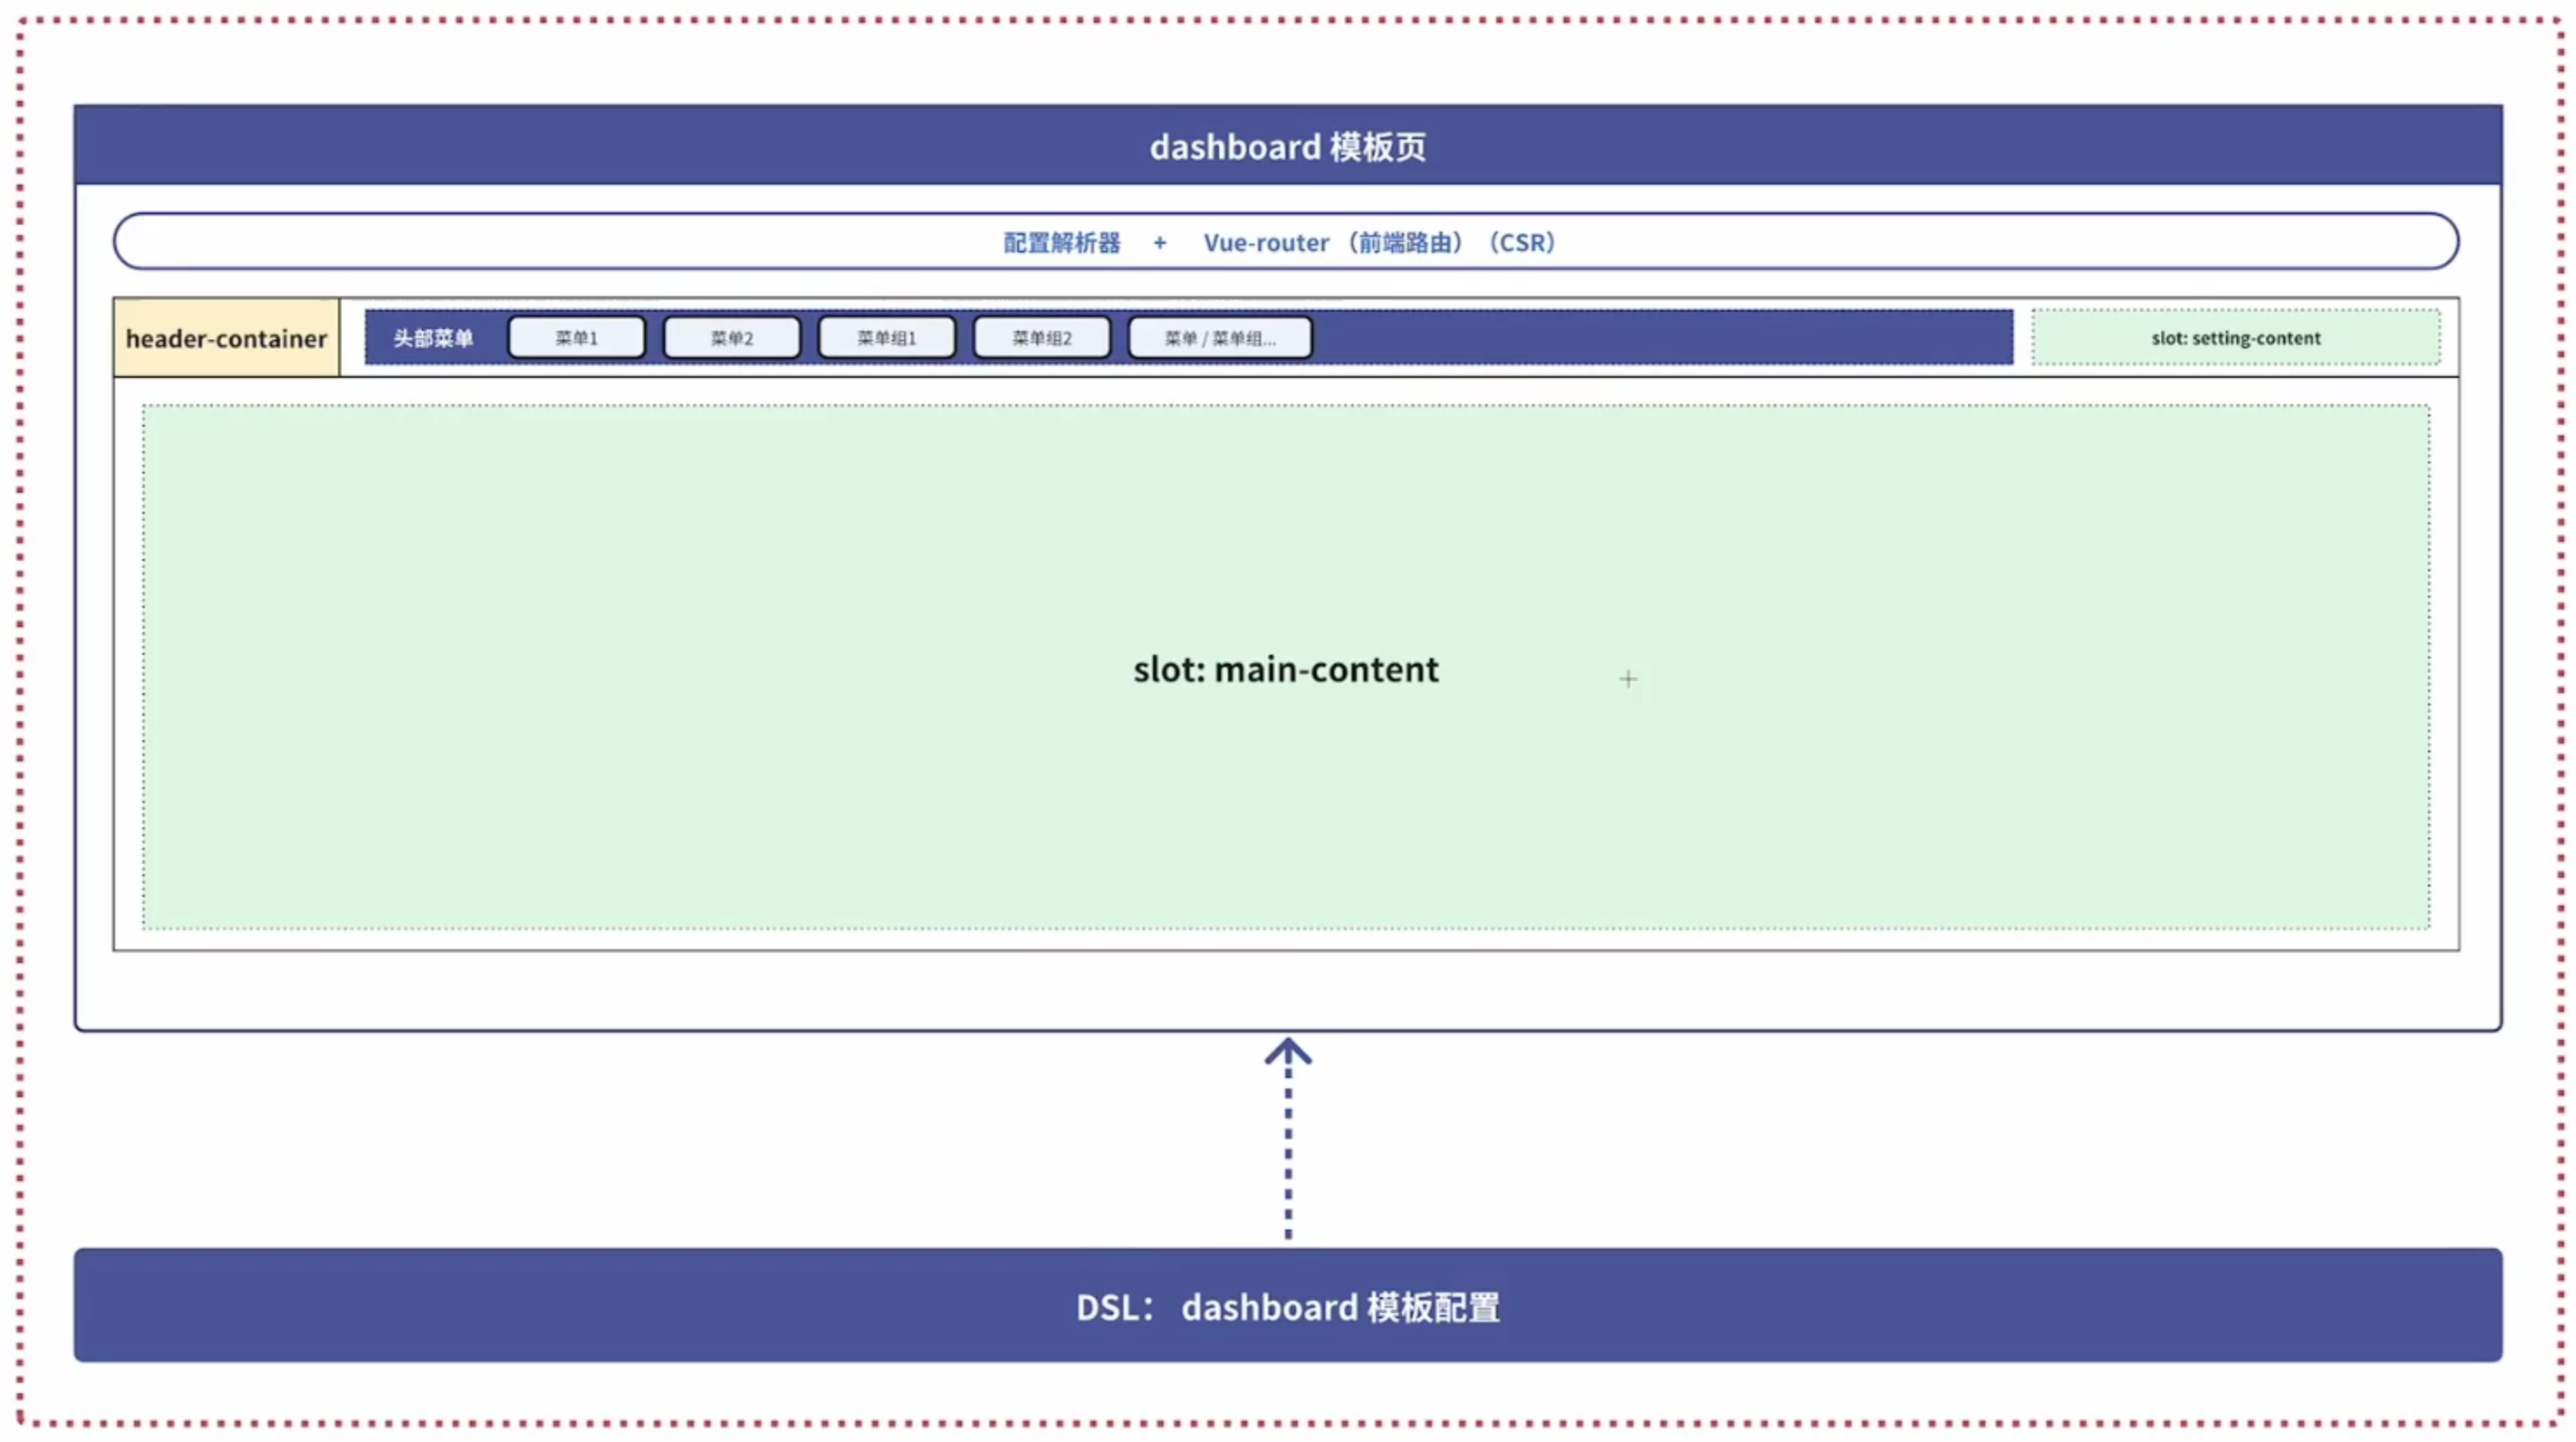
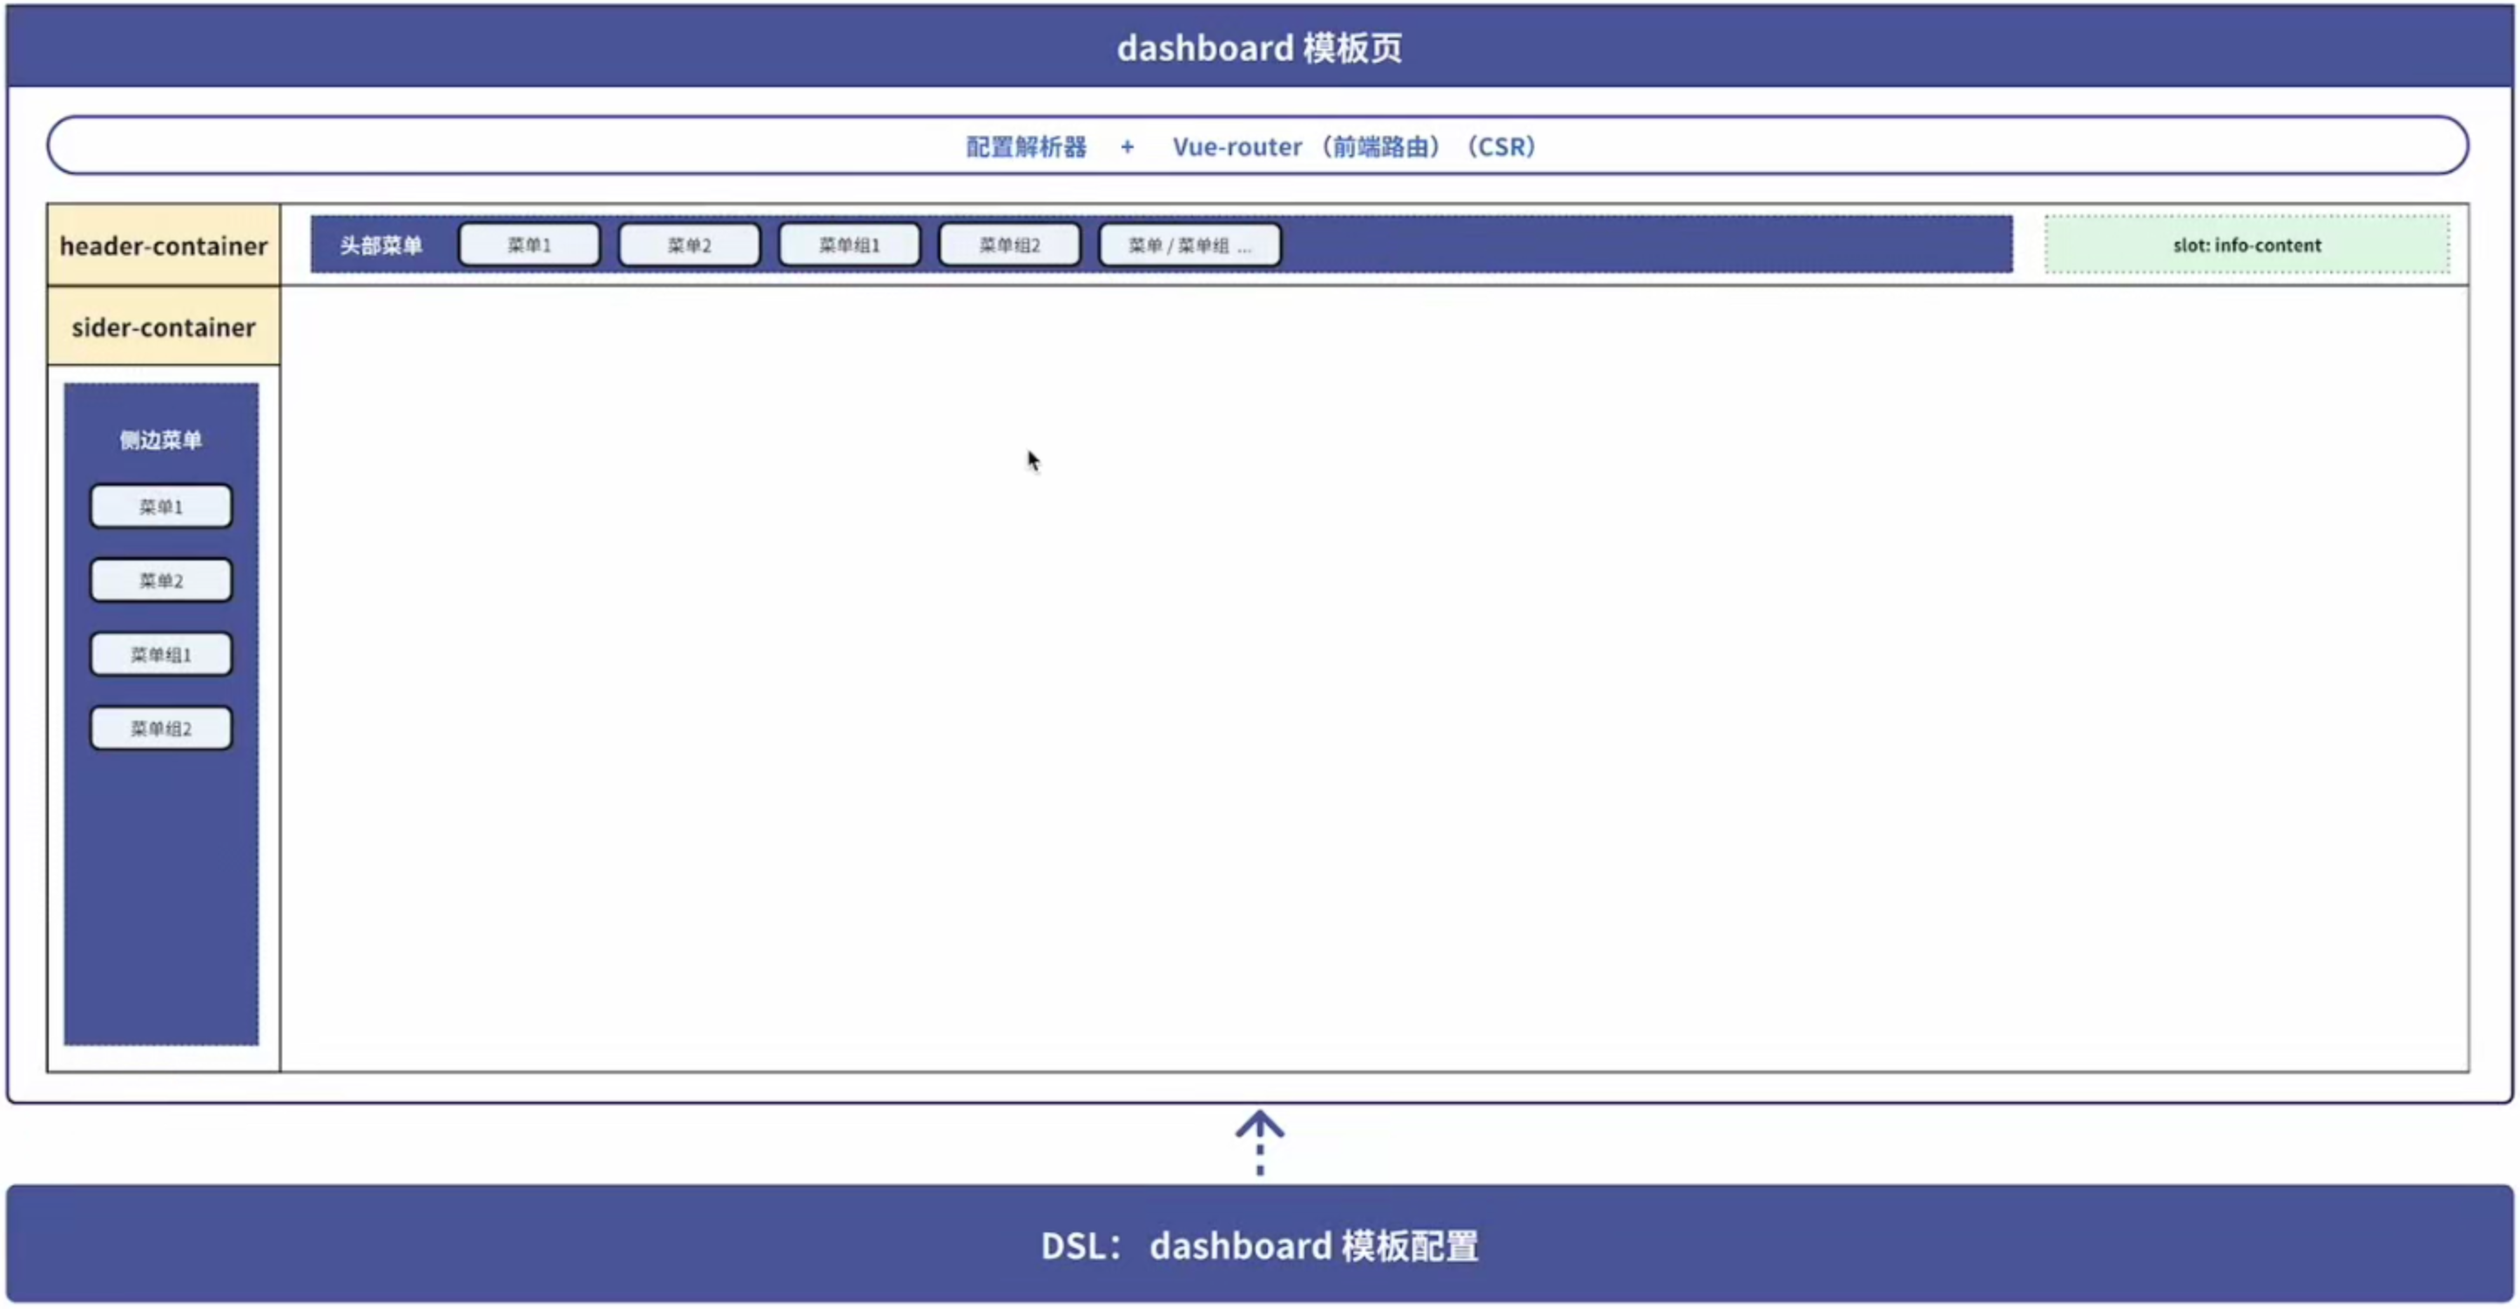
实现 sider-view

diff --git a/app/src/pages/dashboard/component/sider-view/sider-view.vue b/app/src/pages/dashboard/component/sider-view/sider-view.vue
@@ -1,7 +1,126 @@
-<script setup></script>
+<script setup>
+import { ref, watch, onMounted } from 'vue';
+import { useRouter, useRoute } from 'vue-router';
+import { useMenuStore } from '@store/menu.js';
+import SiderContainer from '@component/sider-container/sider-container.vue';
+import SubMenu from './sub-menu.vue';
+
+const router = useRouter();
+const route = useRoute();
+const menuStore = useMenuStore();
+
+const activeKey = ref('');
+
+const setActiveKey = () => {
+  let siderMenuItem = menuStore.findMenuItem({
+    key: 'key',
+    value: route.query.sider_key,
+  });
+
+  // 如果首次加载 sider-view，用户未选中左侧菜单，默认第一个
+  if (!siderMenuItem) {
+    const menuItem = menuStore.findMenuItem({
+      key: 'key',
+      value: route.query.key,
+    });
+
+    if (menuItem && menuItem.siderConfig && menuItem.siderConfig.menu) {
+      const sideMenuList = menuItem.siderConfig.menu;
+      // 因为可能深层嵌套，所以使用方法递归去处理
+      siderMenuItem = menuStore.findFirstMenuItem(sideMenuList);
+
+      if (siderMenuItem) {
+        handleMenuSelect(siderMenuItem.key);
+      }
+    }
+  }
+
+  activeKey.value = siderMenuItem?.key;
+};
+
+watch(
+  () => route.query.key,
+  () => {
+    setActiveKey();
+    setMenuList();
+  },
+);
+
+watch(
+  () => menuStore.menuList,
+  () => {
+    setActiveKey();
+    setMenuList();
+  },
+  { deep: true },
+);
+
+const menuList = ref([]);
+
+const setMenuList = () => {
+  const menuItem = menuStore.findMenuItem({
+    key: 'key',
+    value: route.query.key,
+  });
+
+  if (menuItem && menuItem.siderConfig && menuItem.siderConfig.menu) {
+    menuList.value = menuItem.siderConfig.menu;
+  }
+};
+
+const handleMenuSelect = (menuKey) => {
+  if (menuKey === route.query.sider_key) return;
+
+  const menuItem = menuStore.findMenuItem({
+    key: 'key',
+    value: menuKey,
+  });
+
+  const { moduleType, customConfig } = menuItem;
+
+  const pathMap = {
+    sider: '/sider',
+    iframe: '/iframe',
+    schema: '/schema',
+    custom: customConfig?.path,
+  };
+
+  router.push({
+    path: `/sider${pathMap[moduleType]}`,
+    query: {
+      key: route.query.key,
+      proj_key: route.query.proj_key,
+      sider_key: menuKey,
+    },
+  });
+};
+
+const onMenuSelect = (menuKey) => {
+  handleMenuSelect(menuKey);
+};
+
+onMounted(() => {
+  setActiveKey();
+  setMenuList();
+});
+</script>
 
 <template>
-  <div class="wrapper">sider-view</div>
+  <sider-container>
+    <template #menu-content>
+      <el-menu :default-active="activeKey" :ellipsis="false" @select="onMenuSelect">
+        <template v-for="item in menuList" :key="item.key">
+          <sub-menu v-if="item.subMenu && item.subMenu.length > 0" :menu-item="item" />
+          <el-menu-item v-else :index="item.key">
+            {{ item.name }}
+          </el-menu-item>
+        </template>
+      </el-menu>
+    </template>
+    <template #main-content>
+      <router-view />
+    </template>
+  </sider-container>
 </template>
 
 <style lang="less" scoped></style>

diff --git a/model/business/project/pdd.js b/model/business/project/pdd.js
@@ -4,10 +4,6 @@ module.exports = {
   homePage: '/todo?proj_key=pdd&key=product',
   menu: [
     {
-      key: 'product',
-      name: '商品管理（拼多多）',
-    },
-    {
       key: 'client',
       name: '客户管理（拼多多）',
     },
@@ -36,8 +32,83 @@ module.exports = {
               path: 'https://www.baidu.com',
             },
           },
+          {
+            key: 'categories',
+            name: '分类数据',
+            menuType: 'group',
+            subMenu: [
+              {
+                key: 'category-1',
+                name: '一级分类',
+                menuType: 'module',
+                moduleType: 'custom',
+                customConfig: {
+                  path: '/todo',
+                },
+              },
+              {
+                key: 'category-2',
+                name: '二级分类',
+                menuType: 'module',
+                moduleType: 'iframe',
+                iframeConfig: {
+                  path: 'https://www.baidu.com',
+                },
+              },
+            ],
+          },
         ],
       },
+    },
+    {
+      key: 'shop-setting',
+      name: '店铺设置',
+      menuType: 'group',
+      subMenu: [
+        {
+          key: 'info-setting',
+          name: '店铺信息',
+          menuType: 'module',
+          moduleType: 'custom',
+          customConfig: {
+            path: '/todo',
+          },
+        },
+        {
+          key: 'quality-setting',
+          name: '店铺资质',
+          menuType: 'module',
+          moduleType: 'iframe',
+          customConfig: {
+            path: 'https://www.baidu.com',
+          },
+        },
+        {
+          key: 'categories',
+          name: '分类数据',
+          menuType: ' group',
+          subMenu: [
+            {
+              key: 'category-1',
+              name: '一级分类',
+              menuType: 'module',
+              moduleType: 'custom',
+              customConfig: {
+                path: '/todo',
+              },
+            },
+            {
+              key: 'category-2',
+              name: '二级分类',
+              menuType: 'module',
+              moduleType: 'iframe',
+              iframeConfig: {
+                path: 'https://www.baidu.com',
+              },
+            },
+          ],
+        },
+      ],
     },
   ],
 };

diff --git a/model/business/project/jd.js b/model/business/project/jd.js
@@ -26,6 +26,31 @@ module.exports = {
             path: 'https://www.baidu.com',
           },
         },
+        {
+          key: 'categories',
+          name: '分类数据',
+          menuType: ' group',
+          subMenu: [
+            {
+              key: 'category-1',
+              name: '一级分类',
+              menuType: 'module',
+              moduleType: 'custom',
+              customConfig: {
+                path: '/todo',
+              },
+            },
+            {
+              key: 'category-2',
+              name: '二级分类',
+              menuType: 'module',
+              moduleType: 'iframe',
+              iframeConfig: {
+                path: 'https://www.baidu.com',
+              },
+            },
+          ],
+        },
       ],
     },
   ],

diff --git a/app/src/component/sider-container/sider-container.vue b/app/src/component/sider-container/sider-container.vue
@@ -1,0 +1,32 @@
+<script setup></script>
+
+<template>
+  <el-container class="sider-container">
+    <el-aside class="aside">
+      <slot name="menu-content" />
+    </el-aside>
+    <el-main class="main">
+      <slot name="main-content" />
+    </el-main>
+  </el-container>
+</template>
+
+<style lang="less" scoped>
+.sider-container {
+  height: 100%;
+
+  .aside {
+    width: 200px;
+    height: 100%;
+    border-right: 1px solid #e8e8e8;
+  }
+
+  .main {
+    overflow: scroll;
+  }
+}
+
+:deep(.el-menu) {
+  border-right: 0;
+}
+</style>

diff --git a/app/src/pages/dashboard/entry.dashboard.js b/app/src/pages/dashboard/entry.dashboard.js
@@ -21,15 +21,15 @@ const routes = [
     component: () => import('./component/sider-view/sider-view.vue'),
     children: [
       {
-        path: '/iframe',
+        path: 'iframe',
         component: () => import('./component/iframe-view/iframe-view.vue'),
       },
       {
-        path: '/schema',
+        path: 'schema',
         component: () => import('./component/schema-view/schema-view.vue'),
       },
       {
-        path: '/todo',
+        path: 'todo',
         component: () => import('./todo/todo.vue'),
       },
     ],

diff --git a/app/src/pages/dashboard/component/header-view/header-view.vue b/app/src/pages/dashboard/component/header-view/header-view.vue
@@ -76,7 +76,7 @@ onMounted(() => {
     <template #menu-content>
       <el-menu :default-active="activeKey" :ellipsis="false" mode="horizontal" @select="onMenuSelect">
         <template v-for="item in menuStore.menuList" :key="item.key">
-          <SubMenu v-if="item.subMenu && item.subMenu.length > 0" :menu-item="item" />
+          <sub-menu v-if="item.subMenu && item.subMenu.length > 0" :menu-item="item" />
           <el-menu-item v-else :index="item.key">
             {{ item.name }}
           </el-menu-item>

diff --git a/app/src/store/menu.js b/app/src/store/menu.js
@@ -30,9 +30,22 @@ export const useMenuStore = defineStore('menu', () => {
     }
   };
 
+  const findFirstMenuItem = (list = menuList.value) => {
+    if (!list || !list[0]) return;
+
+    let firstMenuItem = list[0];
+
+    if (firstMenuItem.subMenu) {
+      firstMenuItem = findFirstMenuItem(firstMenuItem.subMenu);
+    }
+
+    return firstMenuItem;
+  };
+
   return {
     menuList,
     setMenuList,
     findMenuItem,
+    findFirstMenuItem,
   };
 });

diff --git a/app/src/pages/dashboard/dashboard.vue b/app/src/pages/dashboard/dashboard.vue
@@ -82,4 +82,8 @@ onMounted(() => {
   </el-config-provider>
 </template>
 
-<style lang="less" scoped></style>
+<style lang="less" scoped>
+:deep(.el-main) {
+  padding: 0;
+}
+</style>

diff --git a/app/src/component/header-container/header-container.vue b/app/src/component/header-container/header-container.vue
@@ -103,9 +103,6 @@ const handleUserCommand = () => {};
       }
     }
   }
-
-  .main-container {
-  }
 }
 
 :deep(.header-container) {

diff --git a/app/src/assets/reset.css b/app/src/assets/reset.css
@@ -1,4 +1,4 @@
-html body {
+html, body {
   height: 100%;
   margin: 0;
 }
